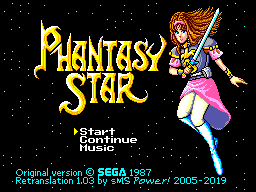
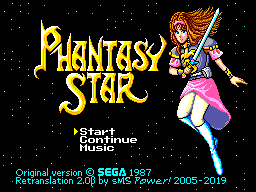
Updated version to 2.0

Changed region(s): [[0.3125, 0.9062, 0.6875, 0.9688], [0.4062, 0.75, 0.4375, 0.7812]]

diff --git a/README.md b/README.md
@@ -23,7 +23,7 @@ Unofficial Translation 2005-2019
   - fixed a bug with the Pause button mod
 - v1.02 released 2008/01/31
   - fixed lockup when you visit Tajim
-- v1.03 released 2019/??/??
+- v2.00 released 2019/??/??
   - rebuilt tools and assembly process
   - fixed issue with 10-letter item names in inventory (#2)
   - fixed bug with pluralisation (#5)
@@ -38,6 +38,7 @@ Unofficial Translation 2005-2019
   - save game names widened (#15)
   - additional save slots enabled (using existing 8KB save RAM) (#16)
   - doubled walking and vehicle speed (#8)
+  - added music test (#18)
   
 
 Phantasy Star Original Dialogue Version 
